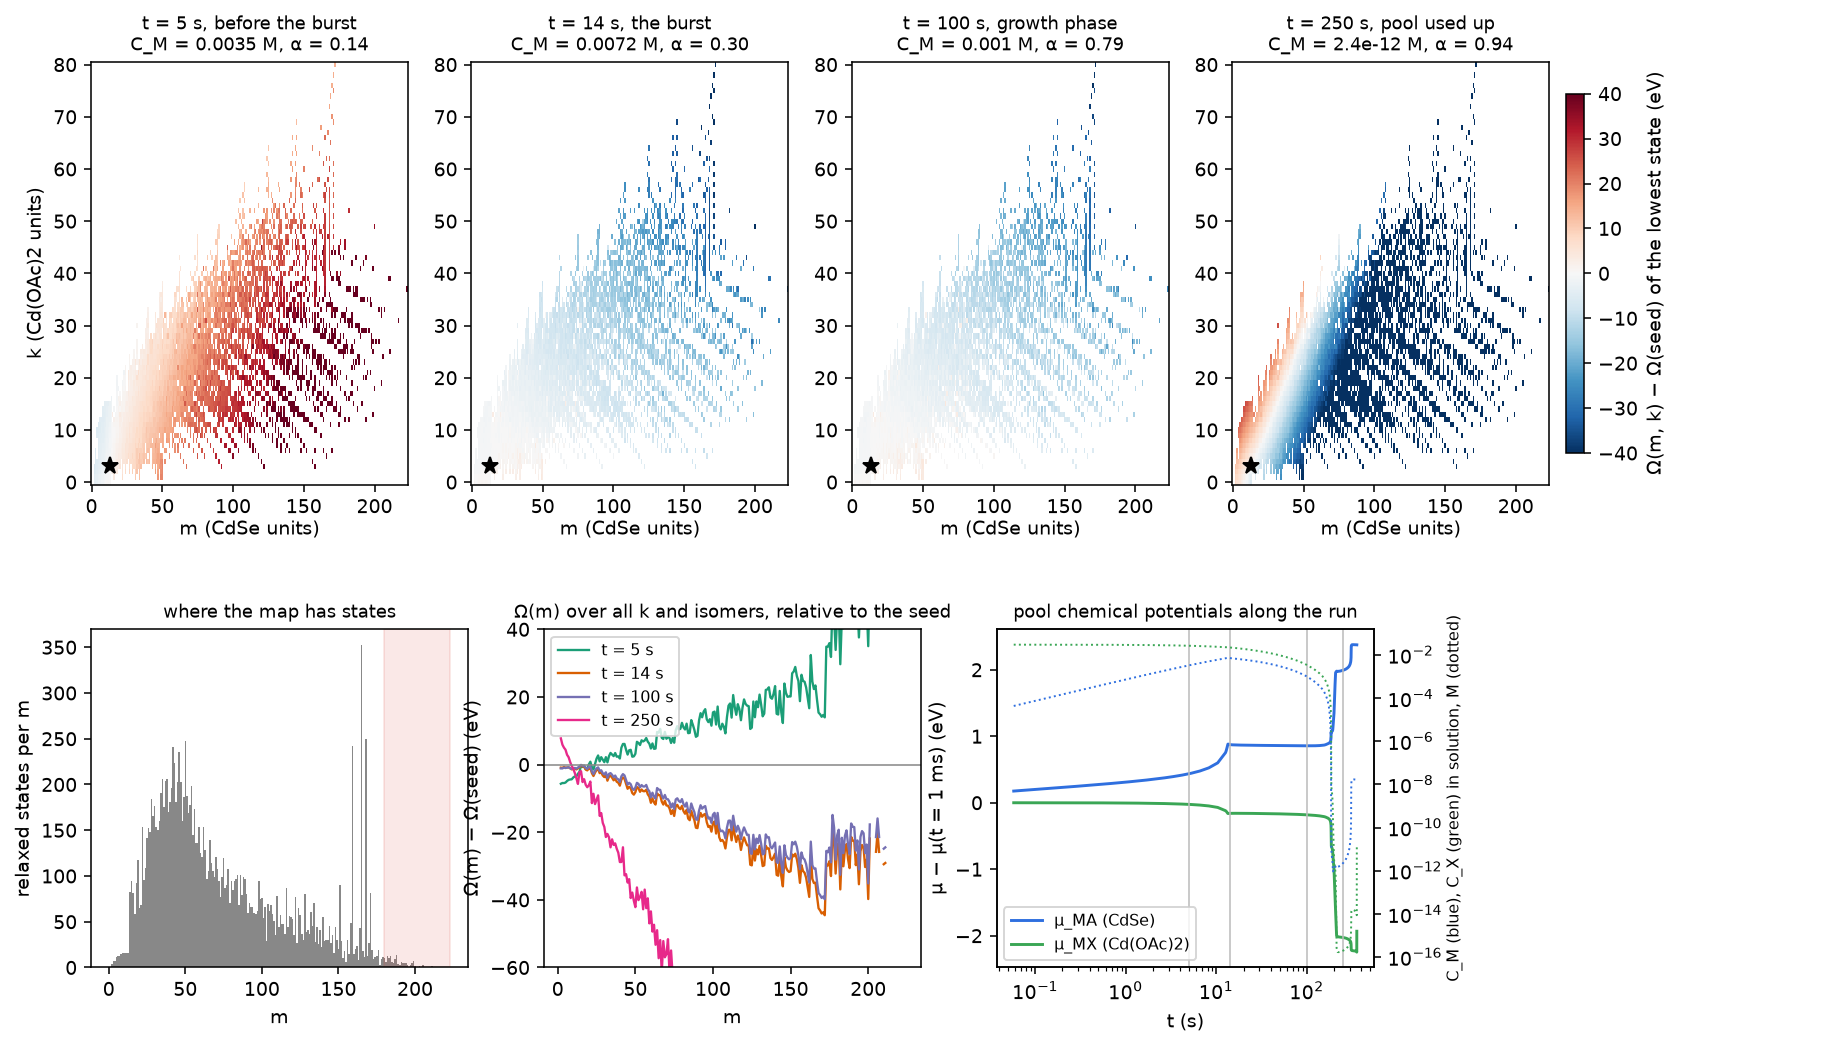
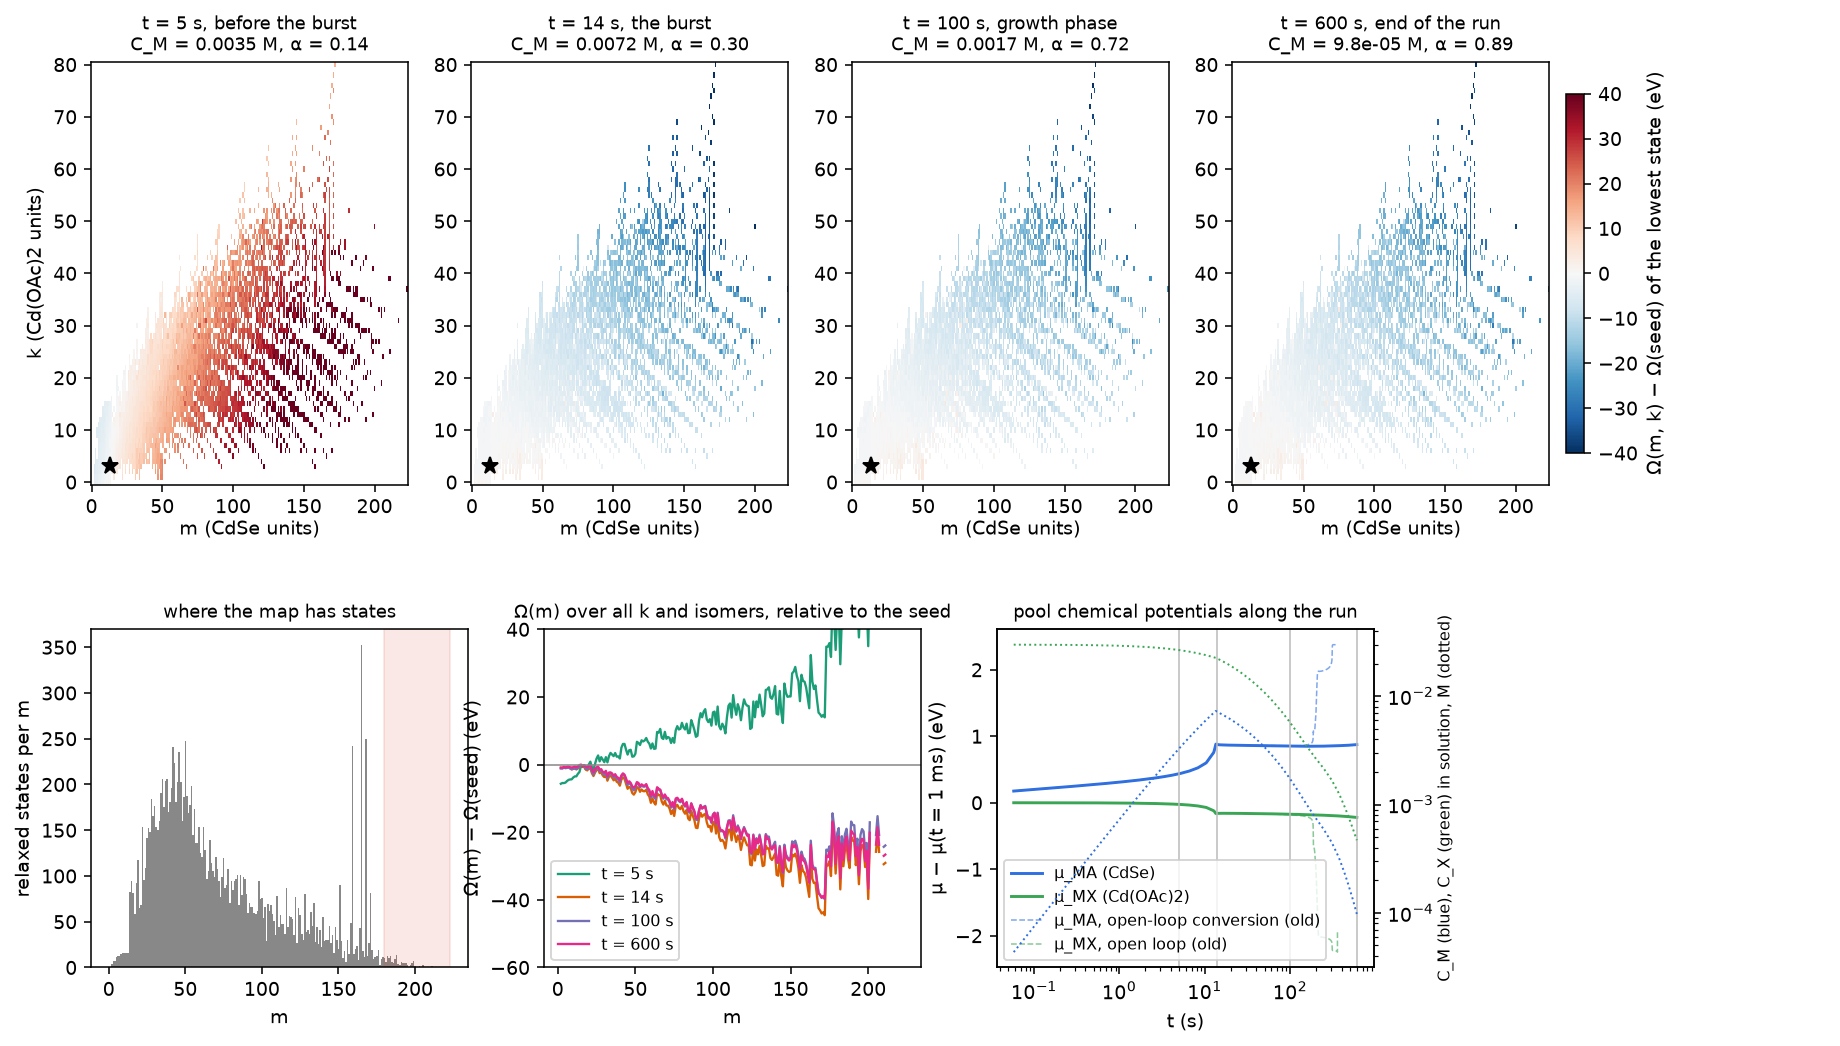
docs: CdSe protocol with the salt-limited precursor conversion (growth commit 5af3e3f): dx/dt = k_conv (c_P0 - x) C_X in theory and the master equation; run and Omega-map figures redrawn from the salt-limited default runs (NHR job 9646722) with the old open-loop run dashed; the acetate case is now p

diff --git a/docs/protocols/cdse/figure_scripts/run_fig.py b/docs/protocols/cdse/figure_scripts/run_fig.py
@@ -5,10 +5,10 @@ matplotlib.use("Agg")
 import matplotlib.pyplot as plt
 S = sys.argv[1]
 a = json.load(open(f"{S}/run_acetate.json")); c = json.load(open(f"{S}/run_cdcl2.json"))
+o = json.load(open(f"{S}/open_run_acetate.json")); to = np.array(o["t"])
 t = np.array(a["t"]); tc = np.array(c["t"])
 fig, axs = plt.subplots(4, 1, figsize=(8, 10), sharex=True)
-phases = [(1e-3, 13, "I", "#eef3f8"), (13, 16.5, "II", "#fbe9d8"), (16.5, 200, "III", "#eaf5ea"),
-          (200, 330, "IV", "#f3ecf7"), (330, 360, "V", "#f8e1e1")]
+phases = [(1e-3, 13, "I", "#eef3f8"), (13, 16.5, "II", "#fbe9d8"), (16.5, 600, "III", "#eaf5ea")]
 for ax in axs:
     for lo, hi, lab, col in phases:
         ax.axvspan(lo, hi, color=col, lw=0)
@@ -18,13 +18,16 @@ for lo, hi, lab, col in phases:
 ax = axs[0]
 ax.plot(t, a["alpha"], c="#555", label="acetate α (converted)")
 ax.plot(tc, c["alpha"], c="#555", ls=":", label="CdCl2 α")
+ax.plot(to, o["alpha"], c="#aaa", ls="--", lw=1, label="acetate, open-loop conversion (old)")
 ax.set_ylabel("conversion α"); ax.legend(fontsize=8, loc="center left")
 ax = axs[1]
 ax.plot(t, np.maximum(a["c_MA"], 1e-14), c="#2f6fdf", label="acetate C_M (CdSe in solution)")
 ax.plot(tc, np.maximum(c["c_MA"], 1e-14), c="#2f6fdf", ls=":", label="CdCl2 C_M")
+ax.plot(t, np.maximum(a["c_X_left"], 1e-14), c="#3aa655", label="acetate C_X (salt in solution)")
+ax.plot(to, np.maximum(o["c_X_left"], 1e-14), c="#3aa655", ls="--", lw=1, alpha=.6, label="C_X, open-loop conversion (old)")
 ax.plot(t, np.maximum(a["n_dots"], 1e-14), c="#f0a030", label="acetate dots (m ≥ 13)")
 ax.plot(tc, np.maximum(c["n_dots"], 1e-14), c="#f0a030", ls=":", label="CdCl2 dots")
-ax.set_yscale("log"); ax.set_ylim(1e-14, 3e-2); ax.set_ylabel("concentration (M)"); ax.legend(fontsize=8, loc="lower right")
+ax.set_yscale("log"); ax.set_ylim(1e-17, 1e-1); ax.set_ylabel("concentration (M)"); ax.legend(fontsize=7, loc="lower right", ncol=2)
 ax = axs[2]
 m, sd = np.array(a["m_mean"]), np.array(a["m_std"])
 ok = np.array(a["n_dots"]) > 1e-15
@@ -32,6 +35,8 @@ ax.plot(t[ok], m[ok], c="#a0522d", label="acetate ⟨m⟩")
 ax.fill_between(t[ok], (m - sd)[ok], (m + sd)[ok], color="#a0522d", alpha=.2, lw=0)
 okc = np.array(c["n_dots"]) > 1e-15
 ax.plot(tc[okc], np.array(c["m_mean"])[okc], c="#a0522d", ls=":", label="CdCl2 ⟨m⟩")
+ok_o = np.array(o["n_dots"]) > 1e-15
+ax.plot(to[ok_o], np.array(o["m_mean"])[ok_o], c="#aaa", ls="--", lw=1, label="acetate, open-loop conversion (old)")
 ax.axhline(13, c="#888", lw=.8); ax.text(1.5e-3, 16, "seed m = 13", fontsize=7.5, color="#666")
 ax.set_ylabel("dot size m (CdSe units)"); ax.legend(fontsize=8, loc="upper left")
 ax = axs[3]
@@ -41,7 +46,7 @@ for f, col in (("100", "#1b9e77"), ("111B", "#d95f02"), ("111A", "#7570b3")):
 ax.plot(t, np.array(a["frontier"]) * 1e-3, c="#999", ls="--", label="share of dots on the network edge × 1e-3")
 ax.set_yscale("log"); ax.set_ylim(1e-14, 1e-2); ax.set_ylabel("flux (M/s)"); ax.legend(fontsize=7, loc="lower left", ncol=2)
 ax.set_xlabel("time (s)")
-fig.suptitle("Acetate default case (solid) and CdCl2 (dotted), 500 K, c_P0 0.025 M, c_MX0 0.03 M", fontsize=10, y=0.995)
+fig.suptitle("Acetate default case (solid), CdCl2 (dotted), the old open-loop acetate run (grey dashed); 500 K, c_P0 0.025 M, c_MX0 0.03 M", fontsize=9, y=0.995)
 fig.tight_layout()
 fig.savefig(f"{S}/img/run_phases.png", dpi=150, facecolor="white")
 print("ok", t[-1], a.get("stopped"))

diff --git a/docs/protocols/cdse/figure_scripts/map_fig.py b/docs/protocols/cdse/figure_scripts/map_fig.py
@@ -17,7 +17,7 @@ g, th, _ = net.G(T, eps)
 kt = KB_EV * T
 m, k = net.m.astype(int), net.k.astype(int)
 seed = int(np.where((m == 13) & (k == 3))[0][0])
-snaps = [(5.0, "t = 5 s, before the burst"), (14.0, "t = 14 s, the burst"), (100.0, "t = 100 s, growth phase"), (250.0, "t = 250 s, pool used up")]
+snaps = [(5.0, "t = 5 s, before the burst"), (14.0, "t = 14 s, the burst"), (100.0, "t = 100 s, growth phase"), (600.0, "t = 600 s, end of the run")]
 fig, axs = plt.subplots(2, 4, figsize=(16, 8.4), gridspec_kw={"height_ratios": [1.25, 1], "hspace": 0.38})
 prof = []
 for j, (ts, lab) in enumerate(snaps):
@@ -58,6 +58,9 @@ ax = axs[1, 2]
 tt = np.array(run["t"]); okp = tt > 0.05
 ax.plot(tt[okp], np.array(run["mu_MA"])[okp] - run["mu_MA"][0], c="#2f6fdf", label="μ_MA (CdSe)")
 ax.plot(tt[okp], np.array(run["mu_MX"])[okp] - run["mu_MX"][0], c="#3aa655", label="μ_MX (Cd(OAc)2)")
+old = json.load(open(f"{S}/open_run_acetate.json")); to = np.array(old["t"]); oko = to > 0.05
+ax.plot(to[oko], np.array(old["mu_MA"])[oko] - old["mu_MA"][0], c="#2f6fdf", ls="--", lw=.8, alpha=.6, label="μ_MA, open-loop conversion (old)")
+ax.plot(to[oko], np.array(old["mu_MX"])[oko] - old["mu_MX"][0], c="#3aa655", ls="--", lw=.8, alpha=.6, label="μ_MX, open loop (old)")
 for ts, _ in snaps:
     ax.axvline(ts, c="#bbb", lw=.8)
 ax.set_xscale("log"); ax.set_xlabel("t (s)"); ax.set_ylabel("μ − μ(t = 1 ms) (eV)")

diff --git a/docs/protocols/cdse/master-equation.md b/docs/protocols/cdse/master-equation.md
@@ -10,7 +10,7 @@ The model follows, in time, how many of each structure exist in solution:
 - $N_i(t)$ (mol/L): the population of every state $i$, meaning every grid node with $m\ge2$ and every relaxed network
   state;
 - $C_M(t)$, $C_X(t)$: the CdSe and the salt in solution (the pool, [theory](theory.md) §6);
-- $x(t)$: the CdSe made so far by the precursor ([theory](theory.md) §5), a known function of time.
+- $x(t)$: the CdSe made so far by the precursor ([theory](theory.md) §5), converting on the salt left in solution.
 
 ```mermaid
 flowchart TD
@@ -181,14 +181,15 @@ $$
 
 | term | represents |
 |---|---|
-| $x(t)$ | CdSe made by the precursor so far; it also removes one salt per CdSe |
+| $x(t)$ | CdSe made by the precursor so far, $dx/dt=k_\mathrm{conv}(c_\mathrm{P,0}-x)\,C_X$; it also removes one salt per CdSe |
 | $\sum_im_iN_i$ | CdSe held in clusters and dots |
 | $\sum_ik_iN_i$ | salt held in their shells |
 
 $C_M$ and $C_X$ fix $\mu_\mathrm{MA}$, $\mu_\mathrm{MX}$ and the package shares $x_n$ ([theory](theory.md) §6). These in
 turn fix every Ω and every rate, so the pool couples all states.
 
-In the code the held amounts are carried forward with the step fluxes, held(t + Δt) = held(t) + Δt Σ (Δm, Δk) J, not
+$x$ is solved inside each implicit step with the populations, the held salt taken at the step's end (closed form while
+nothing holds salt). In the code the held amounts are carried forward with the step fluxes, held(t + Δt) = held(t) + Δt Σ (Δm, Δk) J, not
 recomputed as Σ m N. The isomerisations' ~1e13 s⁻¹ terms otherwise left round-off above the tolerance.
 
 ## 7. Solving it
@@ -244,14 +245,14 @@ Both happen at once in a run, on different parts of the map.
 ![Omega maps](img/omega_maps.png)
 
 *Top: Ω of the lowest state of each composition (m, k), relative to the seed (13, 3), at the pool of the acetate
-default run at 5, 14, 100 and 250 s. Blue lies downhill of the seed, red uphill. Bottom: the number of relaxed states
-per m (where the map exists); Ω(m) summed over k and isomers; the pool's chemical potentials along the run (solid) and
-the CdSe and salt left in solution (dotted).*
+default run at 5, 14, 100 and 600 s. Blue lies downhill of the seed, red uphill. Bottom: the number of relaxed states
+per m (where the map exists); Ω(m) summed over k and isomers; the pool's chemical potentials along the run (solid; the
+old open-loop run dashed) and the CdSe and salt left in solution (dotted).*
 
 ![Run phases](img/run_phases.png)
 
-*The same run against time (solid), with CdCl2 (dotted). Phases: I pool builds, II burst, III nucleation-limited
-growth, IV ripening, V second burst.*
+*The same run against time (solid), with CdCl2 (dotted) and the old open-loop acetate run (grey dashed). Phases: I pool
+builds, II burst, III nucleation-limited growth to the end of the run.*
 
 **I. Before the burst (0–13 s).**
 
@@ -270,31 +271,22 @@ growth, IV ripening, V second burst.*
   where the relaxed states thin out (bottom-left panel).
 - Within 3 s the dots reach ⟨m⟩ ≈ 150 ± 35.
 
-**III. Nucleation-limited growth (16–200 s).**
+**III. Nucleation-limited growth (16–600 s).**
 
-- The map stays tilted towards large m, so every dot sits near the bottom of the landscape, at the map's edge.
+- The map stays tilted towards large m (the 100 s and 600 s maps are almost the same), so every dot sits near the
+  bottom of the landscape, at the map's edge.
 - About 18 % of the dots are on states with no growth step out. The edge share stays below 0.5, so the frontier stop
   does not fire.
 - The pool falls as new nuclei form and slide to the edge, so the number of dots rises from 1e-5 to 1.5e-4 M while
-  ⟨m⟩ stays at 150.
+  ⟨m⟩ stays at 150 ± 35. At 600 s, α = 0.89, $C_M$ = 1e-4 M and $C_X$ = 5e-4 M.
 - **Growth of existing dots is limited by the map running out of states, not by kinetics.**
+- The chemical potentials barely move after the burst: $\mu_\mathrm{MA}$ stays within −5.90 … −5.93 eV, because the
+  dots, not the pool, set it.
 
-**IV. Ripening (200–330 s).**
-
-- About 200 s in, the salt in solution runs out ($C_X$ ≈ 1e-16 M; the shells of the dots hold it). $\mu_\mathrm{MX}$
-  drops by about 2 eV and $\mu_\mathrm{MA}$ rises by about 1 eV, because the packages lose their salt.
-- The map at 250 s tilts along k: shell-poor states (low k) become strongly downhill and shell-rich ones uphill.
-- The dots redistribute between facets. The {100} layers keep growing while {111}B gives material back (negative
-  {111}B flux), and ⟨m⟩ rises to 159 as the spread narrows: dissolution and growth on different facets of the same
-  dots.
-
-**V. Second burst (about 356 s).**
-
-- $x(t)$ assumes the salt is still there and keeps producing CdSe. The bare CdSe has a high $\mu_\mathrm{MA}$, so a new
-  burst of small dots forms (⟨m⟩ falls to 136, spread 59).
-- The solver stalls (Δt 2e-8 s) at t = 356 s.
-- This phase depends on the conversion ignoring salt depletion ([theory](theory.md) §5), so it is a limitation of the
-  model, not a prediction.
+**The old open-loop run.** Before the conversion was made salt-limited (commit 5af3e3f), $x(t)$ kept making CdSe after
+the dots' shells had taken the salt. At about 200 s the salt in solution fell to 1e-16 M, $\mu_\mathrm{MX}$ dropped by
+about 2 eV and $\mu_\mathrm{MA}$ rose by about 1 eV. That produced a second burst of small dots at about 356 s and a
+solver stall (dashed lines in the figures). This was an artefact of the conversion, not a prediction.
 
 ### 8.3 Following material on the dashboard
 

diff --git a/docs/protocols/cdse/results.md b/docs/protocols/cdse/results.md
@@ -8,28 +8,31 @@ only, and Ivan asked four times never to push it to grow ([decisions](decisions.
 
 ## 2. Acetate default case
 
-P1 + P2 network, 2026-11-04, NHR job 9644764, 500 K, $c_\mathrm{P,0}$ 0.025 M, $c_\mathrm{MX,0}$ 0.03 M.
+P1 + P2 network, salt-limited conversion (commit 5af3e3f), NHR job 9646722, 500 K, $c_\mathrm{P,0}$ 0.025 M,
+$c_\mathrm{MX,0}$ 0.03 M. 600 s in 447 s of wall time.
 
-| t (s) | α | $C_M$ (M) | $C_X$ (M) | dots (M) | ⟨m⟩ ± σ | phase |
-|---|---|---|---|---|---|---|
-| 5 | 0.14 | 3.5e-3 | 2.7e-2 | ≈ 0 | – | I |
-| 14 | 0.30 | 7.2e-3 | 2.2e-2 | 2.5e-6 | 146 | II |
-| 32 | 0.51 | 4.5e-3 | 1.4e-2 | 5.3e-5 | 150 ± 35 | III |
-| 99 | 0.79 | 1.0e-3 | 3.5e-3 | 1.2e-4 | 150 ± 35 | III |
-| 180 | 0.90 | 1.2e-5 | 1.0e-4 | 1.5e-4 | 151 | III |
-| 254 | 0.94 | 2.4e-12 | 2e-16 | 1.5e-4 | 157 | IV |
-| 300 | 0.95 | 1.9e-11 | 5e-16 | 1.5e-4 | 159 ± 28 | IV |
-| 356 | 0.97 | 1.6e-8 | 9e-15 | 1.8e-4 | 136 ± 59 | V, solver stall |
+| t (s) | α | $C_M$ (M) | $C_X$ (M) | dots (M) | ⟨m⟩ ± σ | edge share | phase |
+|---|---|---|---|---|---|---|---|
+| 5 | 0.14 | 3.5e-3 | 2.7e-2 | ≈ 0 | – | – | I |
+| 14 | 0.30 | 7.2e-3 | 2.2e-2 | 2.5e-6 | 146 ± 38 | 0.15 | II |
+| 32 | 0.50 | 4.7e-3 | 1.5e-2 | 5.0e-5 | 150 ± 35 | 0.18 | III |
+| 99 | 0.73 | 1.7e-3 | 5.8e-3 | 1.0e-4 | 150 ± 35 | 0.18 | III |
+| 194 | 0.81 | 7.7e-4 | 2.7e-3 | 1.3e-4 | 150 ± 35 | 0.18 | III |
+| 305 | 0.85 | 4.5e-4 | 1.7e-3 | 1.4e-4 | 149 ± 36 | 0.18 | III |
+| 600 | 0.89 | 9.8e-5 | 4.7e-4 | 1.5e-4 | 150 ± 35 | 0.18 | III |
 
 The phases are explained with the maps in [the master equation](master-equation.md) §8:
 
 - **I**: the pool builds.
 - **II**: a burst carries new nuclei straight to m ≈ 150, where the map thins.
-- **III**: nucleation-limited; the dots do not grow further.
-- **IV**: the salt in solution is used up and the dots ripen between facets.
-- **V**: a second burst, an artefact of the conversion ignoring salt depletion.
+- **III**: nucleation-limited to the end; the dots do not grow further, the remaining CdSe goes into new dots.
 
-The run is fast up to the end of the pool (78 s in under 4 min).
+**CdCl2 with the salt-limited conversion**: α 0.979 at 600 s (0.991 before), dots up to 20 % more late in the run,
+still at m = 13; 600 s in 123 s.
+
+**The old open-loop run** (NHR job 9644764) agreed to 1e-4 up to 13 s. After about 200 s it ran out of salt in
+solution and stalled at 356 s after a spurious second burst ([master equation](master-equation.md) §8.2). Its files
+are kept next to the new ones in `network_growth_data/default_salt_vs_open/`.
 
 ## 3. Comparison with experiments
 

diff --git a/docs/protocols/cdse/theory.md b/docs/protocols/cdse/theory.md
@@ -148,16 +148,19 @@ MPI ranks, with the SCF in 100-cycle pieces restarted from the wavefunction.
 
 ## 5. Precursor conversion
 
-The Se precursor P reacts with the cadmium salt to give the CdSe supply, one salt per CdSe, second order:
+The Se precursor P reacts with the cadmium salt to give the CdSe supply, one salt per CdSe, second order in the
+precursor left and the salt left **in solution**:
 
 $$
 \mathrm{P}+\mathrm{MX}_q\longrightarrow\mathrm{MA}+\ldots,\qquad
-Q=-\frac{dc_\mathrm{MX}}{dt}=k_\mathrm{conv}(T)\,c_\mathrm{MX}\,c_\mathrm P,\qquad
+\frac{dx}{dt}=k_\mathrm{conv}(T)\,(c_\mathrm{P,0}-x)\,C_X,\qquad C_X=c_\mathrm{MX,0}-x-\sum_ik_iN_i,\qquad
 k_\mathrm{conv}(T)=k_\mathrm{conv}(500\,\mathrm K)\,e^{-\frac{E_a}{k_B}\left(\frac1T-\frac1{500\,\mathrm K}\right)}
 $$
 
-With $a=c_\mathrm{MX,0}$ and $b=c_\mathrm{P,0}$, the converted amount $x(t)$ is closed form, and $\alpha=x/c_\mathrm{P,0}$
-is the fraction of precursor converted:
+$x$ is the CdSe made so far and $\alpha=x/c_\mathrm{P,0}$ the fraction of precursor converted. $C_X$ is the salt in
+solution: what the conversion has not used and the dots' shells ($k_i$ salt units in state $i$) do not hold. The growth
+model solves $x$ inside each implicit time step together with the populations. While no state holds salt, the
+equation has the closed form below, with $a=c_\mathrm{MX,0}$ and $b=c_\mathrm{P,0}$:
 
 $$
 x(t)=ab\,\frac{1-e^{-|a-b|k_\mathrm{conv}t}}{\max(a,b)-\min(a,b)\,e^{-|a-b|k_\mathrm{conv}t}}\quad(a\ne b),\qquad
@@ -166,9 +169,11 @@ $$
 
 - Defaults: T = 500 K, $c_\mathrm{P,0}$ = 0.025 M, $c_\mathrm{MX,0}$ = 0.03 M, $k_\mathrm{conv}$ = 1 M⁻¹ s⁻¹, $E_a$ = 0.
   $k_\mathrm{conv}$ is set by hand, not computed (Ivan: "I should be able to set this as I wish").
-- $x(t)$ uses $c_\mathrm{MX,0}-x$: it does not see the salt that the dots take into their shells. With the defaults
-  the conversion leaves 0.005 M of salt, less than the dots' shells need, so late in a run the salt in solution is
-  used up while $x(t)$ still produces CdSe (see [Results](results.md)).
+- Until commit 5af3e3f (2026-11-04) the model used the closed form on $c_\mathrm{MX,0}-x$ throughout. That ignored
+  the salt held by the shells: in the acetate default case the salt in solution ran out at about 200 s while CdSe was
+  still being made, which gave a spurious second burst and a solver stall at 356 s. With the salt-limited rate the
+  conversion slows as the shells take the salt (α = 0.89 at 600 s instead of 0.97), and neither happens
+  ([Results](results.md)).
 
 ## 6. The pool: complexes and chemical potentials
 

diff --git a/docs/protocols/cdse/protocol.md b/docs/protocols/cdse/protocol.md
@@ -69,9 +69,8 @@ module, so every stage runs from one tagged version.
 - **Gaps in the map**: wave 4 (11,311 dots, m 79–405) built but not relaxed for acetate; no islands on parents above
   m 150; the registry stops at m 405.
 - **Model gaps**:
-  - the conversion $x(t)$ ignores the salt taken by the dots' shells. With the default amounts the salt in solution
-    runs out at about 200 s while $x(t)$ keeps making CdSe, which causes the second burst and the solver stall at
-    t ≈ 356 s;
+  - (fixed 2026-11-04, commit 5af3e3f) the conversion now runs on the salt left in solution; the open-loop form had
+    produced a spurious second burst and a stall at t ≈ 356 s in the acetate default case;
   - layer steps that also change k carry only CdSe in their rate;
   - the acetate complexes have no COSMO of their own (they take the CdSe monomer radius).
 - **Hand-over**: the network's relaxed (13, 3) is 0.32 eV above the grid's annealed node, and network dots with m ≤ 13
